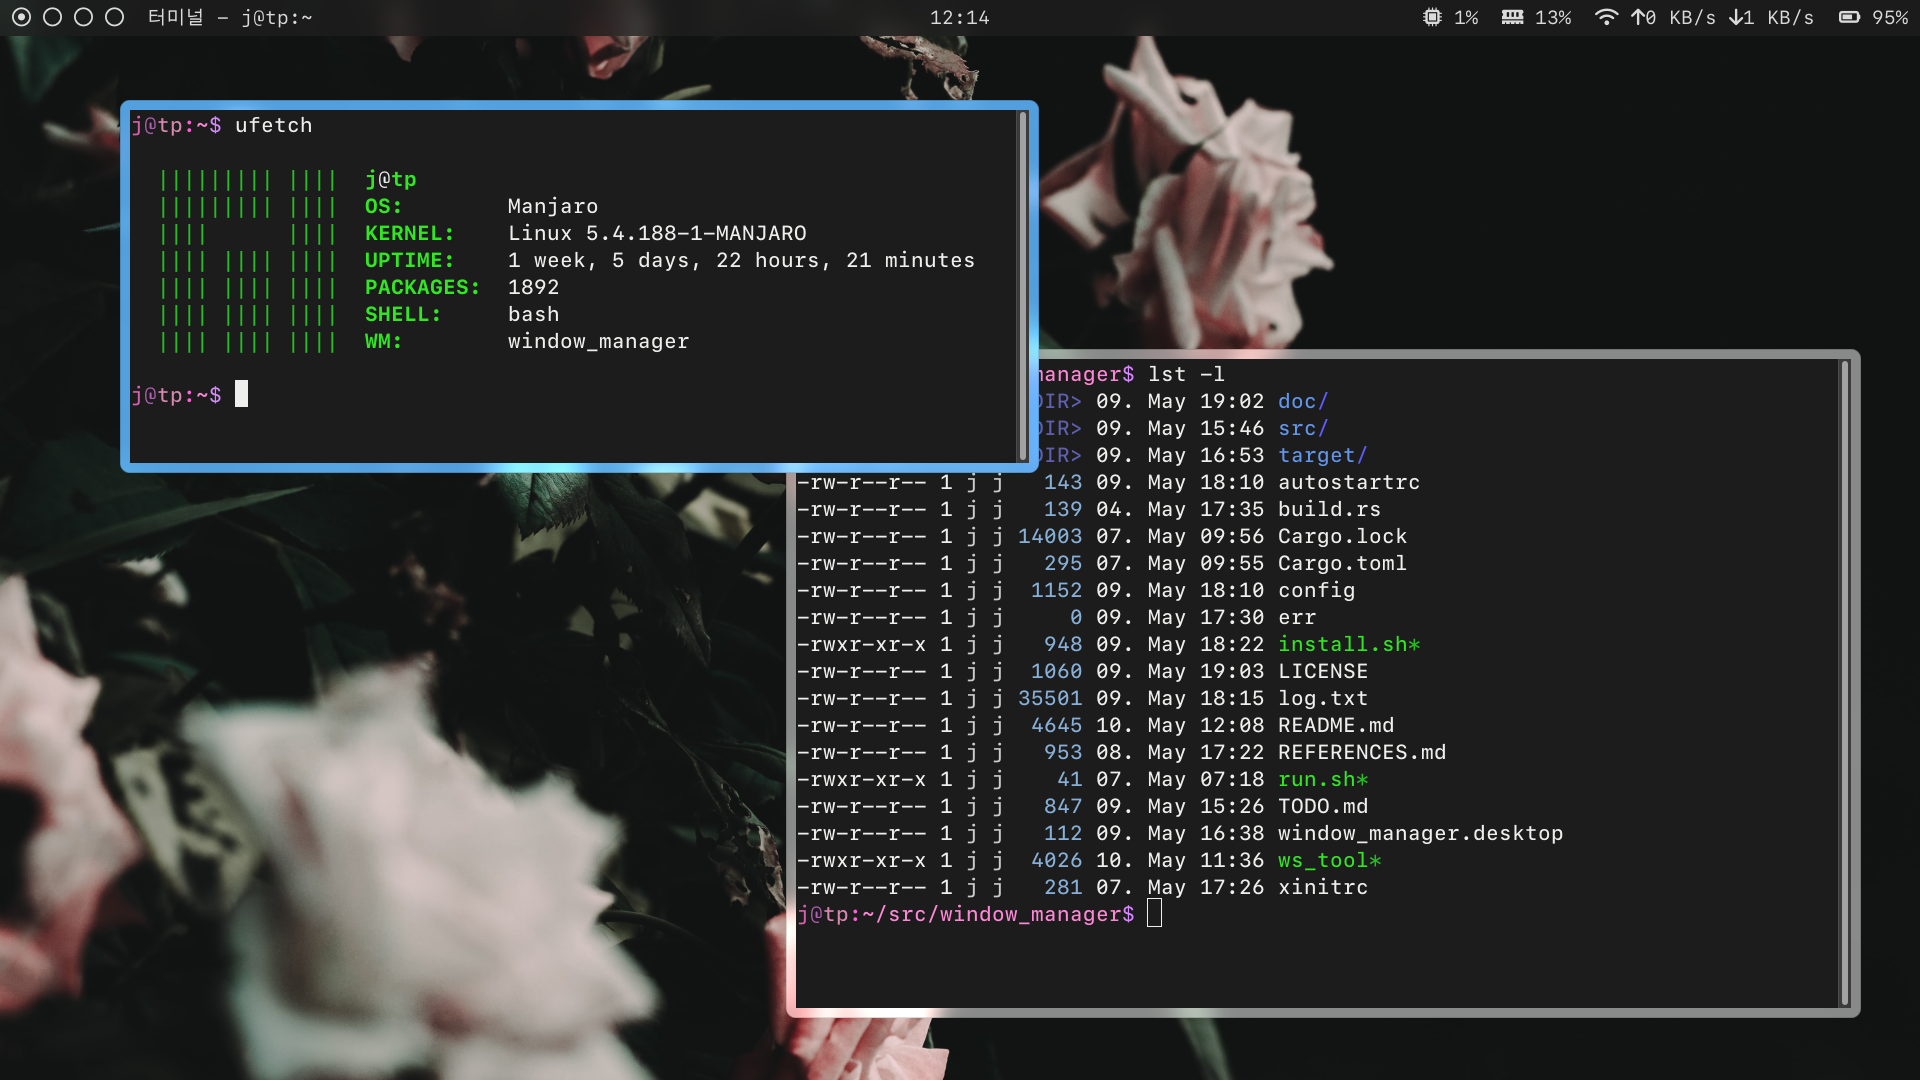
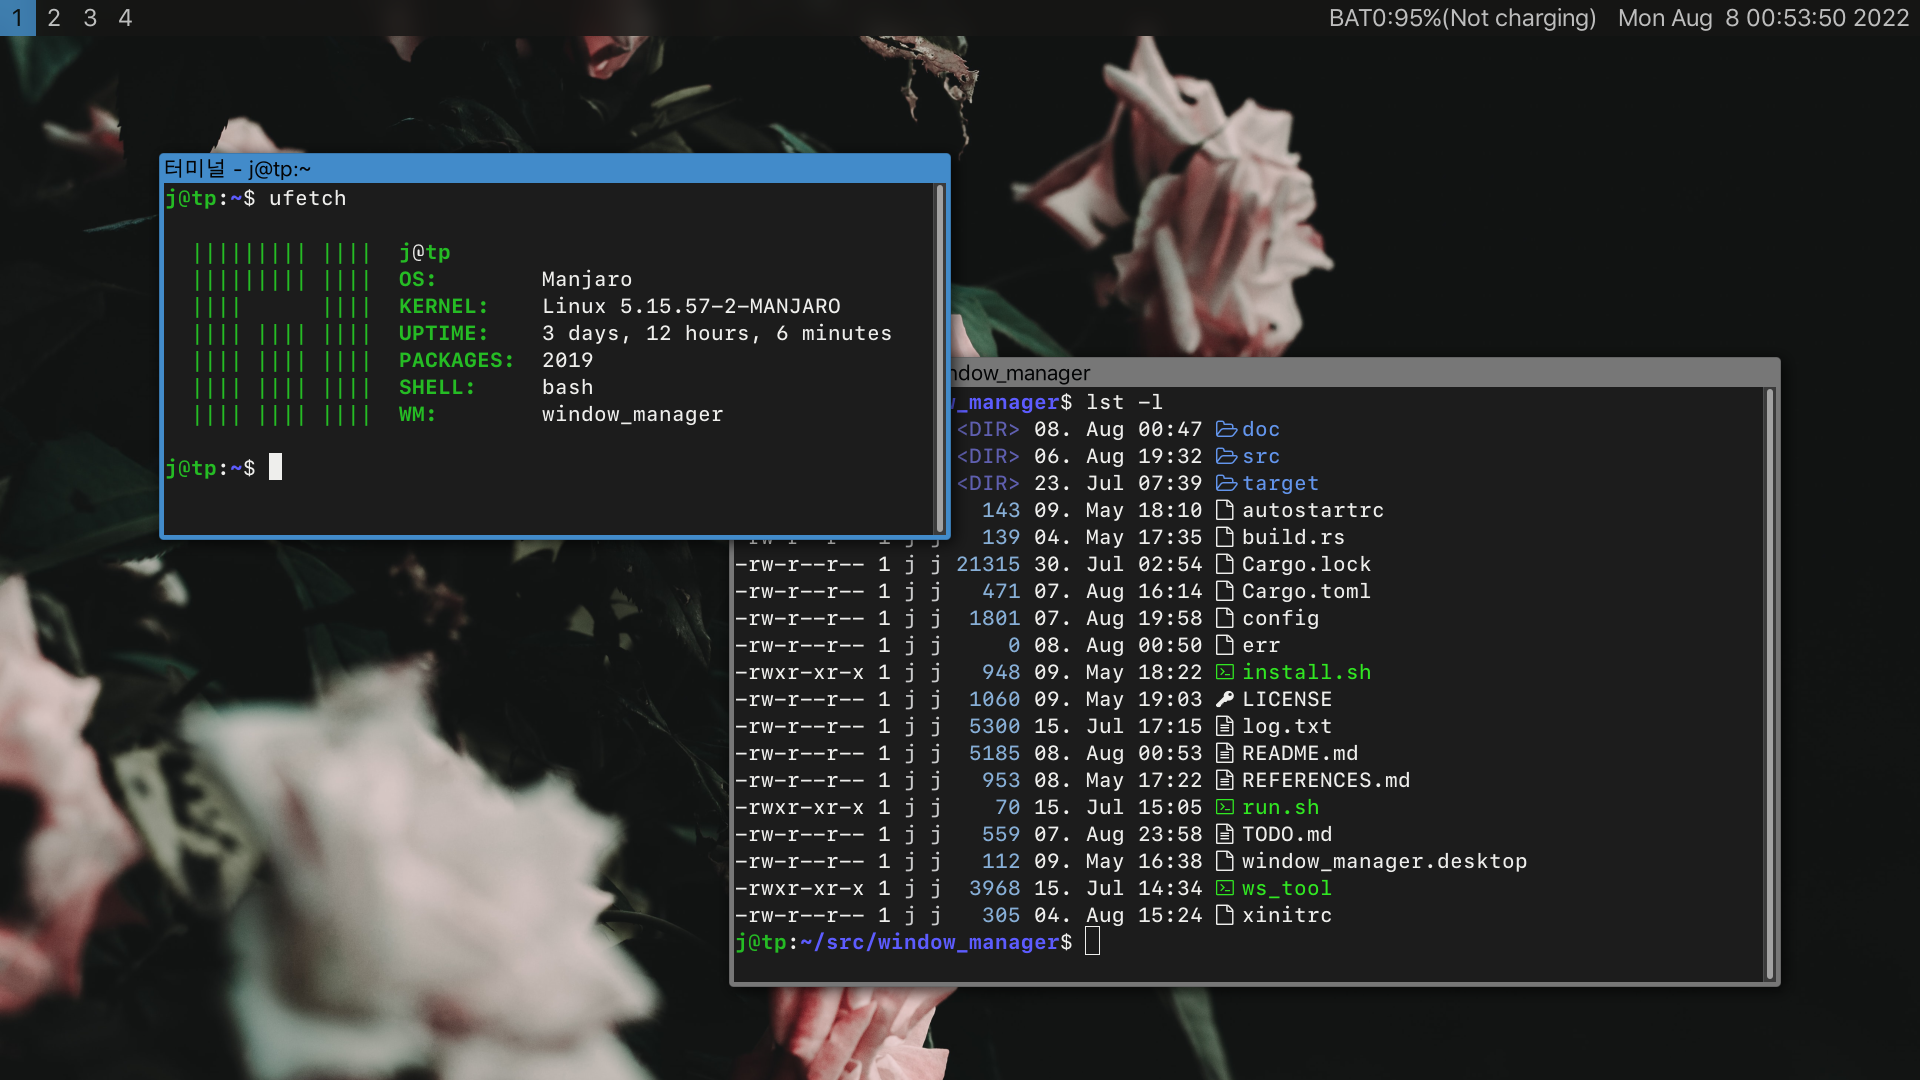
update readme

diff --git a/README.md b/README.md
@@ -113,6 +113,16 @@ This is simply a bash script that is run on startup (so don't forget to add `&` 
 
 - `Alt + Tab` Windows-style window switching
 
+## Status bar
+
+The window manager has a builtin status bar which is enabled by default.
+It can be disabled by calling `cargo build` with `--no-default-features`.
+See the [configuration file format](./doc/CONFIG.md) for customization options,
+currently only the font and colors can be changed.
+
+The bar contains a workspace switcher on the left and the current battery charge and time on the right.
+
+
 ## Hibernation
 
 (This was mostly implemented for fun and is likely not something you want).
@@ -124,7 +134,6 @@ On startup it then runs all these processes and moves their window to the correc
 This does not restore the state of the program in any way beyond running it with the same command line (hence the *fake*).
 
 This also does not work if one process owns multiple windows.
-
 ## ws_tool
 
 A basic python script that lets you interact with workspaces.
@@ -145,19 +154,6 @@ $ ./ws_tool format inactive active join
 See the [Polybar](#polybar) section for an example usage of the `format` command.
 
 Rquires the XLib package: `pip install python3-xlib`.
-
-## Status bar
-
-The window manager has a builtin status bar which is enabled by default.
-It can be disabled by calling `cargo build` with `--no-default-features`.
-See the [configuration file format](./doc/CONFIG.md) for customization options,
-currently only the font and colors can be changed.
-
-The bar contains a workspace switcher and active window title on the left and the current battery charge and time on the right.
-
-Preview:
-
-![window_manager](./doc/bar.png "Builtin status bar")
 
 ## Polybar
 
